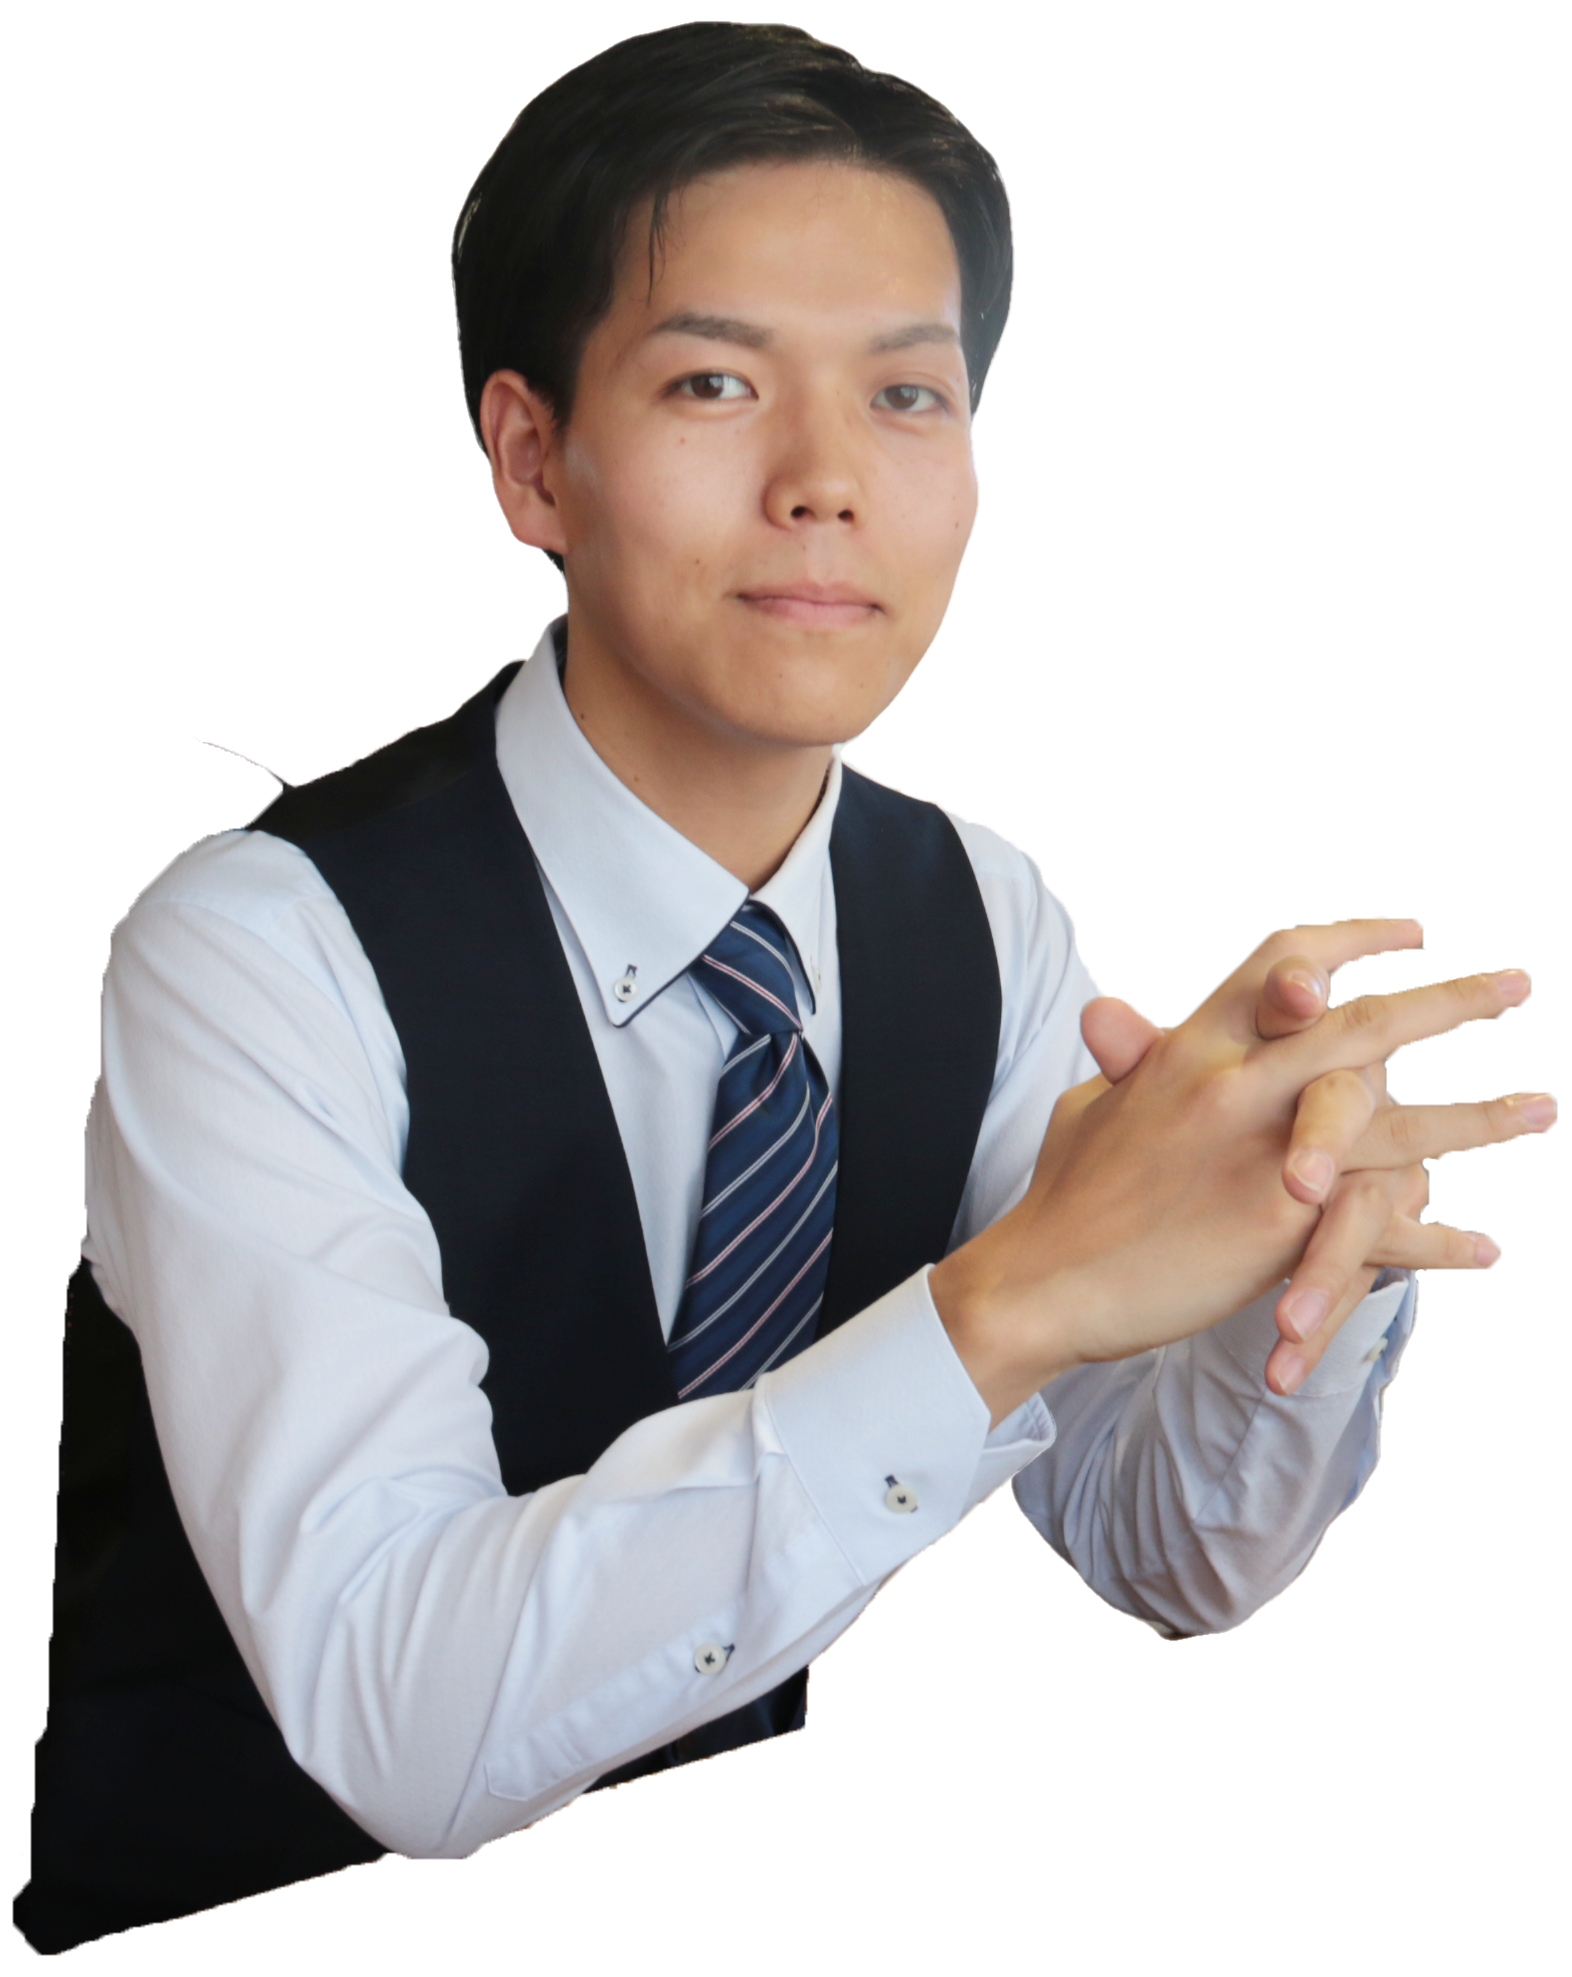
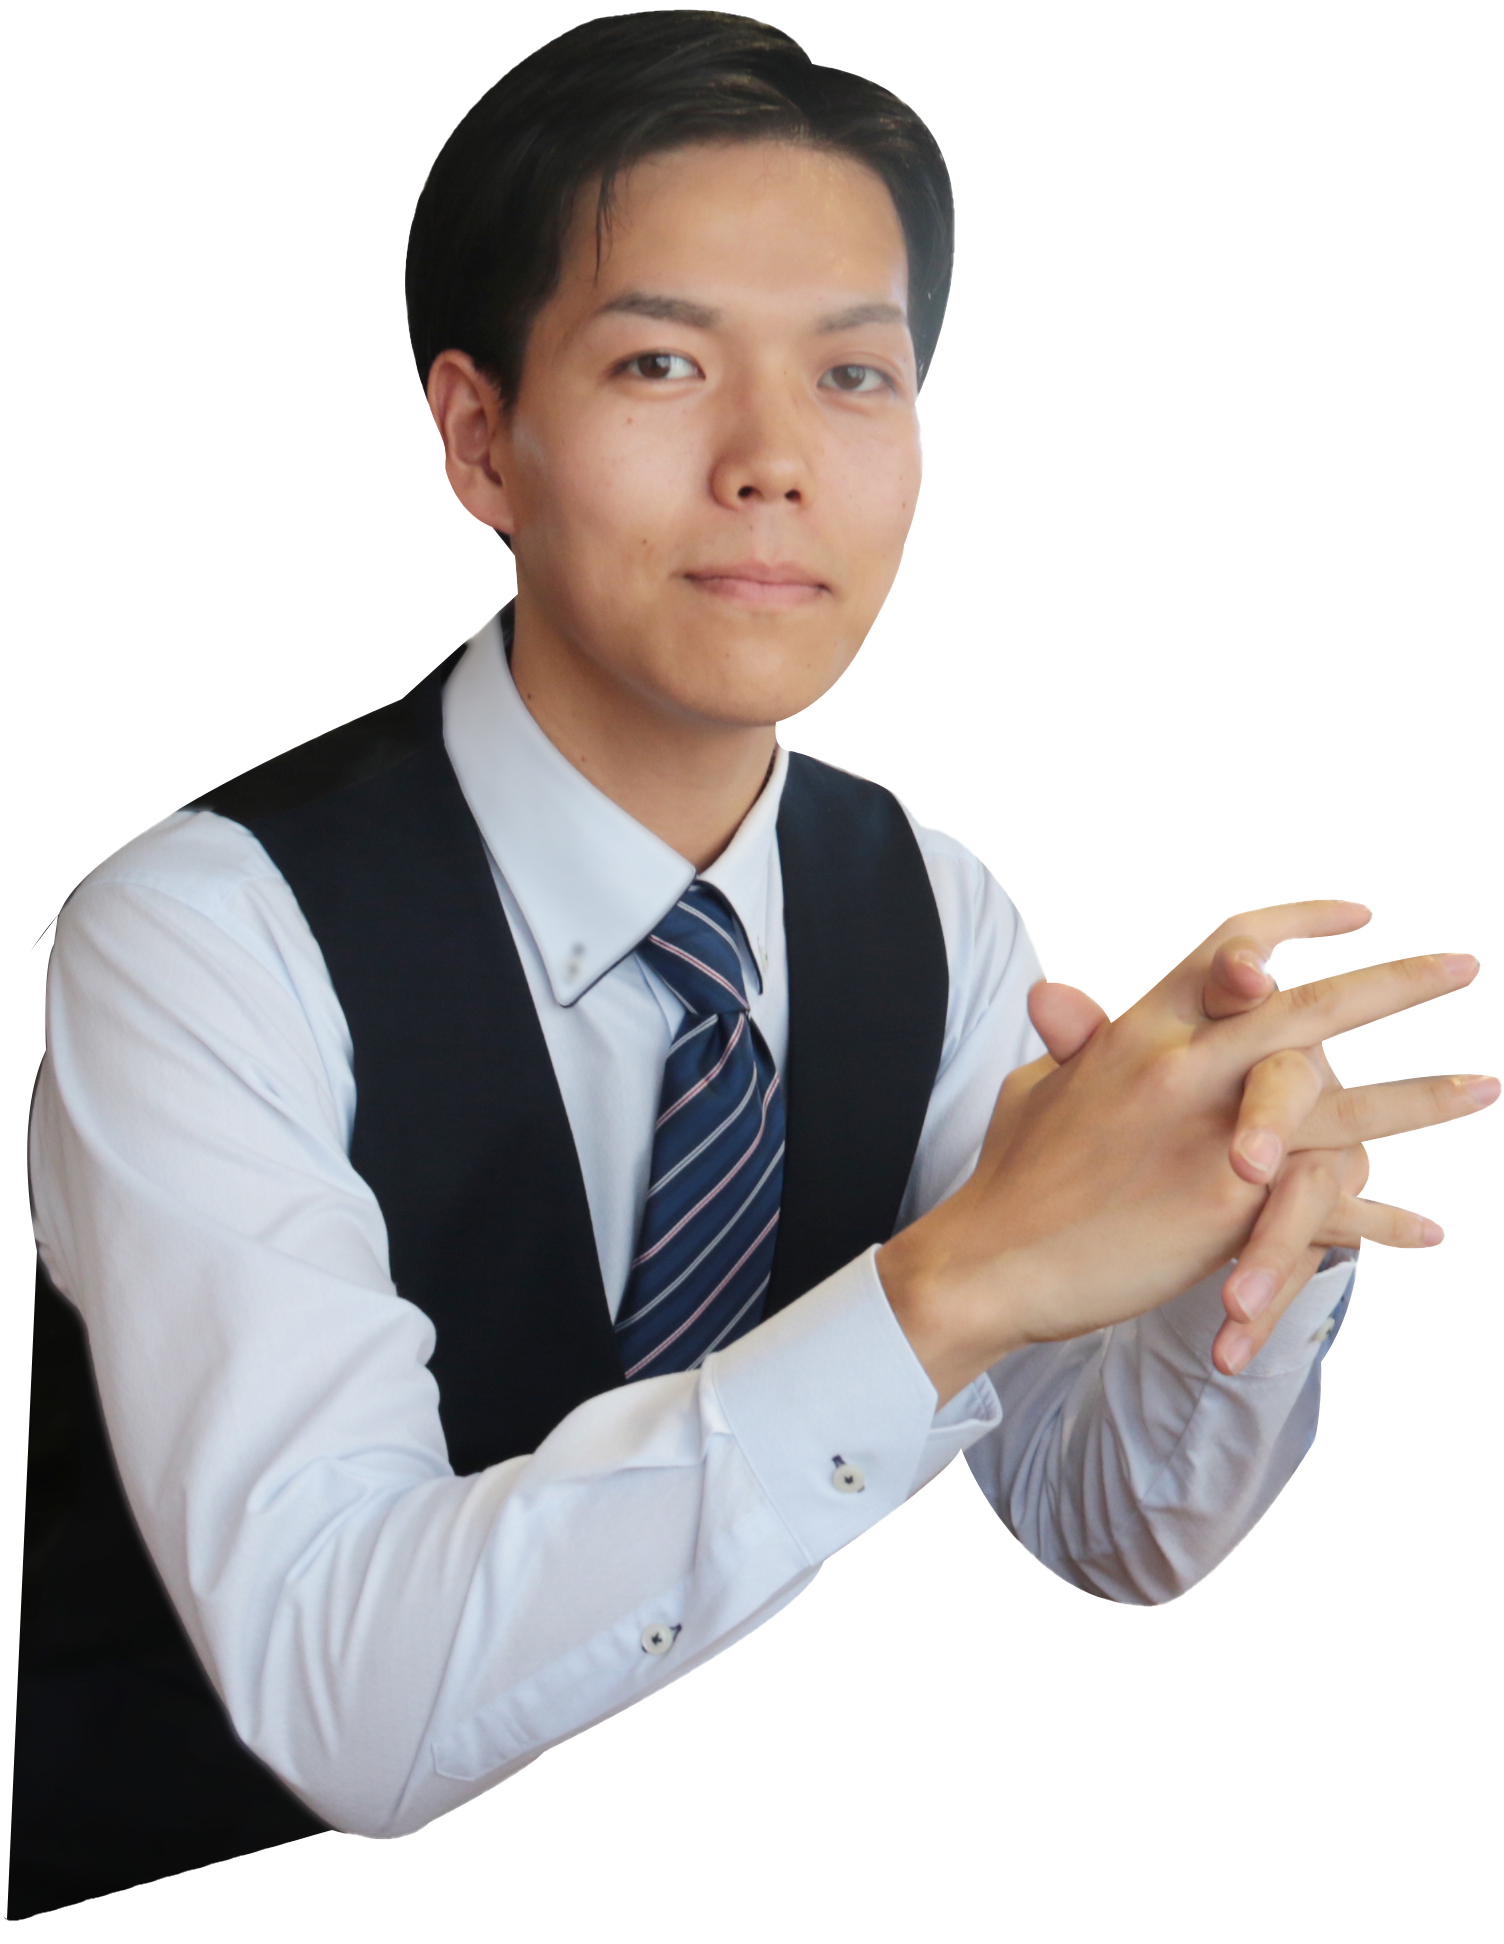
check commit

diff --git a/CSS/stylesheet.css b/CSS/stylesheet.css
@@ -695,7 +695,7 @@ section {
   .introduction {
     height: 57vh;
     padding: 0;
-    background-position: right;
+    background-position: 90%;
   }
 }
 

diff --git a/CSS/stylesheet.scss b/CSS/stylesheet.scss
@@ -451,7 +451,7 @@ section {
   @include sp {
     height: 57vh;
     padding: 0;
-    background-position: right;
+    background-position: 90%;
   }
 }
 
